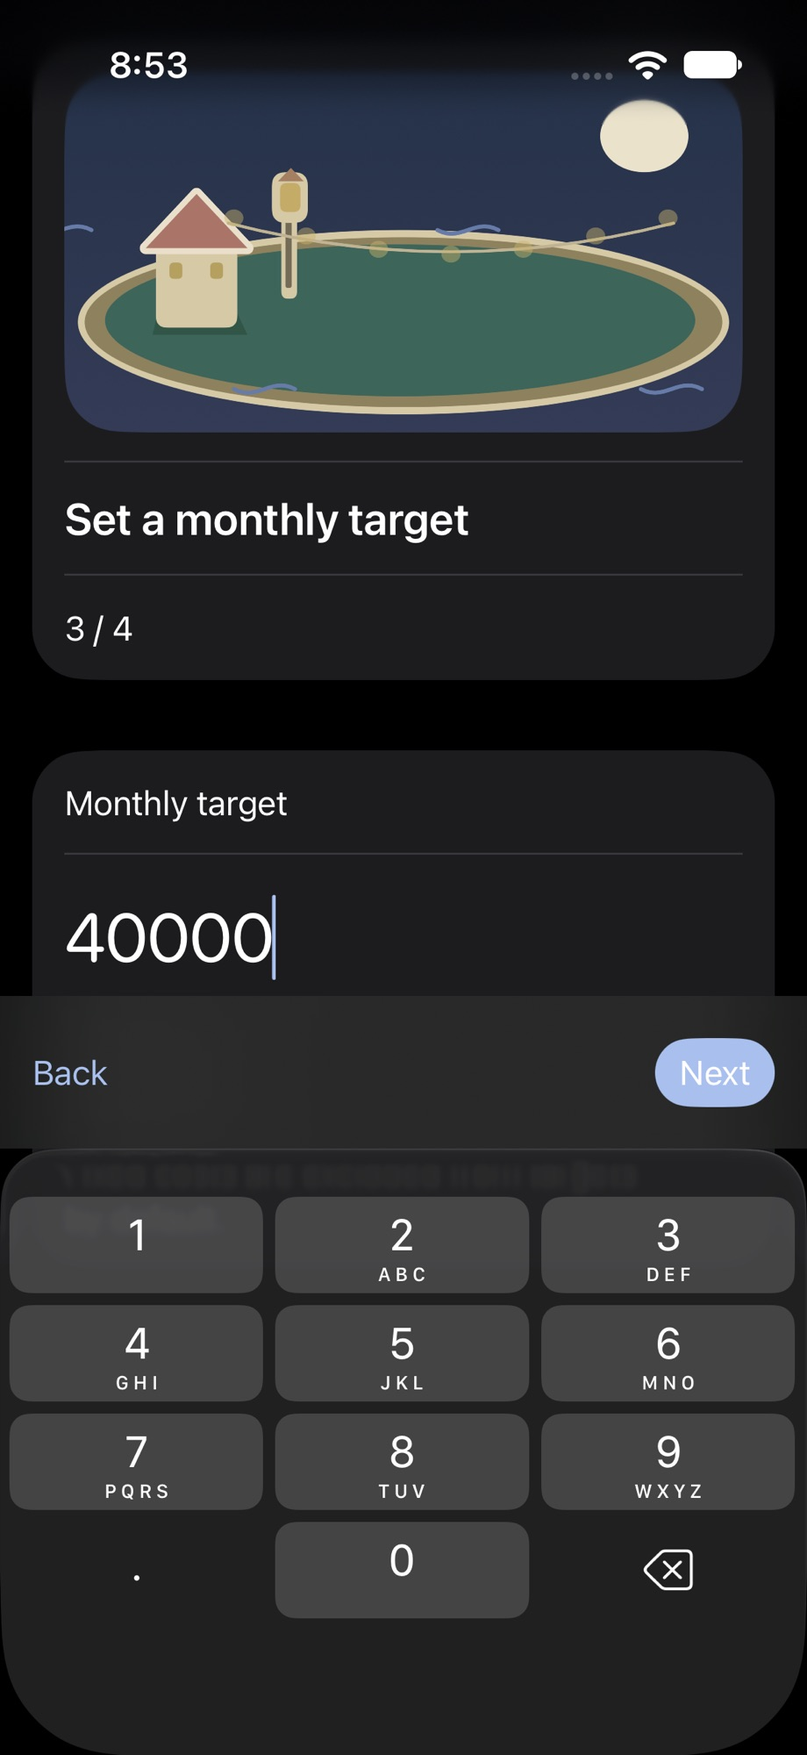
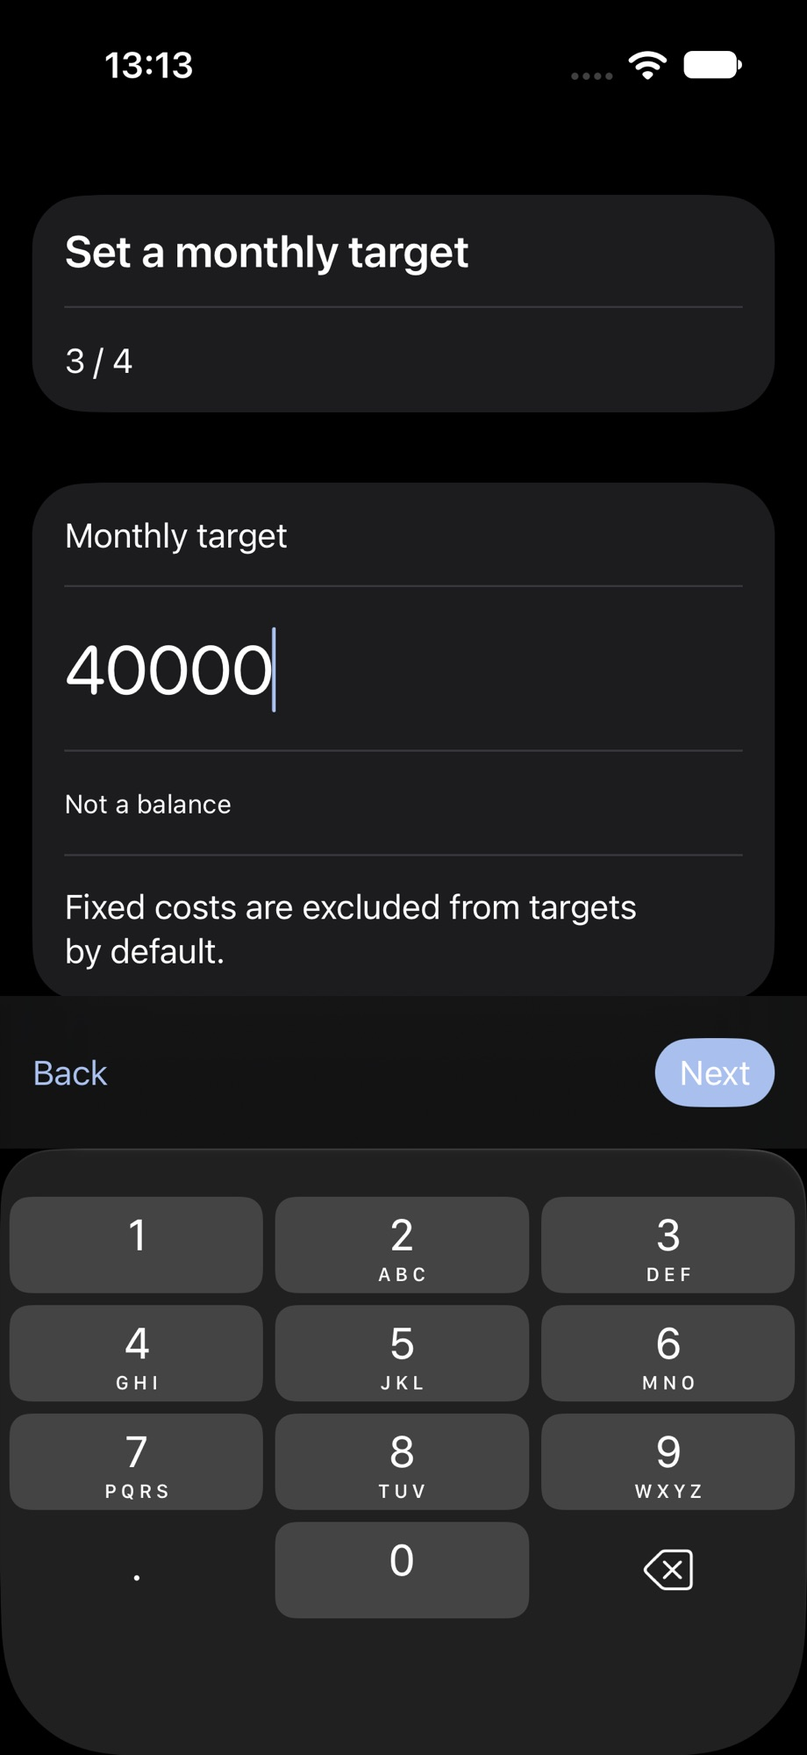
WEALTHY-C2B1-FIXED-CALENDAR: round 5 (PARTIAL) - onboarding amount visible with keyboard
Hide the target-step island while the amount field has focus (FocusState
passed into MoneyInputField, opacity transition); the bottom Back/Next bar
stays. testOnboardingAmountVisibleWithKeyboard now passes on iPhone 15 Pro
and 17 Pro at default size and AX3. Re-captured the 16 onboarding images.

Full suites: 17 Pro 61/61 pass; 15 Pro 60/61 - testResultAccessibilityAudit
reports a contrast failure on the result screen "Done" button (screen not
changed in this round). See .ai/LAST_REPORT.md.

diff --git a/Wealthy/Wealthy/LedgerRoot.swift b/Wealthy/Wealthy/LedgerRoot.swift
@@ -127,11 +127,15 @@ struct OnboardingView: View {
     @State private var step = 0
     @State private var amount = ""
     @State private var child = false
+    @FocusState private var amountFocused: Bool
     private let titles = ["onboardLanguage", "onboardCurrency", "onboardTarget", "onboardChild"]
     var body: some View {
         Form {
             Section {
-                IslandScene(growth: 0, festivals: 0, dusk: false).frame(height: 180).accessibilityHidden(true)
+                if step != 2 || !amountFocused {
+                    IslandScene(growth: 0, festivals: 0, dusk: false).frame(height: 180).accessibilityHidden(true)
+                        .transition(.opacity)
+                }
                 Text(session.t(titles[step])).font(.title2.weight(.semibold)).frame(maxWidth: .infinity, alignment: .leading)
                 Text("\(step + 1) / 4")
             }
@@ -140,13 +144,13 @@ struct OnboardingView: View {
                 if step == 1 { CurrencyPicker() }
                 if step == 2 {
                     Text(session.t("monthlyTarget"))
-                    MoneyInputField(text: $amount, label: session.t("amount"), identifier: "onboardingAmount", font: .system(.largeTitle, design: .rounded).monospacedDigit())
+                    MoneyInputField(text: $amount, label: session.t("amount"), identifier: "onboardingAmount", font: .system(.largeTitle, design: .rounded).monospacedDigit(), focus: $amountFocused)
                     Text(session.t("notBalance")).font(.footnote)
                     Text(session.t("fixedOff"))
                 }
                 if step == 3 { Toggle(session.t("useChild"), isOn: $child); Text(session.t("childExplanation")) }
             }
-        }.scrollDismissesKeyboard(.interactively).safeAreaInset(edge: .bottom) {
+        }.animation(.default, value: amountFocused).scrollDismissesKeyboard(.interactively).safeAreaInset(edge: .bottom) {
                 HStack {
                     if step > 0 { Button(session.t("back")) { step -= 1 }.frame(minHeight: 44) }
                     Spacer()

diff --git a/Wealthy/Wealthy/MoneyInputField.swift b/Wealthy/Wealthy/MoneyInputField.swift
@@ -4,7 +4,7 @@ import SwiftUI
 struct MoneyInputField: View {
     @Environment(LedgerSession.self) private var session
     @Binding var text: String
-    @FocusState private var isFocused: Bool
+    @FocusState private var internalFocus: Bool
 
     let label: String
     let identifier: String
@@ -12,13 +12,16 @@ struct MoneyInputField: View {
     var currencyCode: String? = nil
     var prompt: Text? = nil
     var foreground: Color? = nil
+    var focus: FocusState<Bool>.Binding? = nil
+
+    private var isFocused: Bool { (focus ?? $internalFocus).wrappedValue }
 
     var body: some View {
         TextField("", text: Binding(
             get: { isFocused ? text : session.formattedInput(text, code: currencyCode) },
             set: { text = $0 }
         ), prompt: prompt)
-        .focused($isFocused)
+        .focused(focus ?? $internalFocus)
         .onChange(of: isFocused) { _, focused in
             guard focused, let value = try? session.parse(text, code: currencyCode) else { return }
             text = session.input(value, code: currencyCode)

diff --git a/.ai/LAST_REPORT.md b/.ai/LAST_REPORT.md
@@ -1,44 +1,75 @@
-# Cycle 2b.1 Round 4 Report
+# Cycle 2b.1 Round 5 Report
 
 Task ID: WEALTHY-C2B1-FIXED-CALENDAR
 Status: PARTIAL
 
-Starting HEAD: `61e22d6c85847317e75c0816e611367f5ead1a45`; branch: `codex/wealthy-c2b1-fixed-calendar`. Host: macOS 27.2, Xcode 27.2 (27B52); iPhone 15 Pro and iPhone 17 Pro simulators use iOS 27.0. Pre-existing changes to `.ai/CURRENT_TASK.md`, three `.DS_Store` files, and an untracked design PDF were preserved.
+Starting HEAD: `c27d7342428eae126771687cf9c3ad0a589a02fb`; branch: `codex/wealthy-c2b1-fixed-calendar`. Host: macOS 27.2, Xcode 27.2 (27B52); both simulators use iOS 27.0. The pre-existing changes to `.ai/CURRENT_TASK.md`, three `.DS_Store` files and an untracked design PDF were preserved. `5db23f0` is an ancestor of HEAD.
 
 ## Changed files
 
-- `WealthyUITests/WealthyUITests.swift` — adds `testOnboardingAmountVisibleWithKeyboard`, running at the default size and AX3, checking the input value, hittability, keyboard, navigation-bar boundary, and Next button. The bar boundary calculation reflects the current padded HStack layout and must be adjusted if that layout changes.
+- `Wealthy/Wealthy/LedgerRoot.swift` — hides the target-step island with an opacity transition while the amount is focused; keeps the title, step count and bottom bar.
+- `Wealthy/Wealthy/MoneyInputField.swift` — accepts an optional external focus binding; other callers retain the internal focus state.
+- `Verification/Cycle2bEvidence/INDEX.md`
+- `Verification/Cycle2bEvidence/iphone15pro-onboarding-language-light.jpg`
+- `Verification/Cycle2bEvidence/iphone15pro-onboarding-language-dark.jpg`
+- `Verification/Cycle2bEvidence/iphone15pro-onboarding-currency-light.jpg`
+- `Verification/Cycle2bEvidence/iphone15pro-onboarding-currency-dark.jpg`
+- `Verification/Cycle2bEvidence/iphone15pro-onboarding-target-light.jpg`
+- `Verification/Cycle2bEvidence/iphone15pro-onboarding-target-dark.jpg`
+- `Verification/Cycle2bEvidence/iphone15pro-onboarding-child-light.jpg`
+- `Verification/Cycle2bEvidence/iphone15pro-onboarding-child-dark.jpg`
+- `Verification/Cycle2bEvidence/iphone17pro-onboarding-language-light.jpg`
+- `Verification/Cycle2bEvidence/iphone17pro-onboarding-language-dark.jpg`
+- `Verification/Cycle2bEvidence/iphone17pro-onboarding-currency-light.jpg`
+- `Verification/Cycle2bEvidence/iphone17pro-onboarding-currency-dark.jpg`
+- `Verification/Cycle2bEvidence/iphone17pro-onboarding-target-light.jpg`
+- `Verification/Cycle2bEvidence/iphone17pro-onboarding-target-dark.jpg`
+- `Verification/Cycle2bEvidence/iphone17pro-onboarding-child-light.jpg`
+- `Verification/Cycle2bEvidence/iphone17pro-onboarding-child-dark.jpg`
 - `.ai/LAST_REPORT.md`
 
-No product-code change is retained. Experimental changes were removed after they failed the new test.
+A temporary `WealthyUITests/Round5FrameDiagnostics.swift` was created to log frames and removed after both diagnostic runs. `testOnboardingAmountVisibleWithKeyboard` remains exactly as committed.
 
 ## Requirements
 
-1. **Test first — PASS for reproduction; acceptance FAIL.** On the unchanged product code, the first 15 Pro run failed at default size: field `(32.0, 519.33, 329.0, 42.33)` has bottom `561.67`; the original test's conservative bar boundary was `479.0` (`/tmp/wealthy-c2b1-r4-red.log`). The final test computes the bar boundary from both button sizes and HStack padding: 15 Pro default fails with field bottom `561.67` and bar top `474.0`; AX3 produced no additional assertion failure. 17 Pro passed both default and AX3. Both final test runs include keyboard present, typed `40000`, field and Next hittability, and field geometry assertions. The 15 Pro failure remains red.
-2. **Fix — NOT DONE.** The existing `safeAreaInset(edge: .bottom)` in `OnboardingView` and keyboard overlap the field on 15 Pro at default size. An initial `ScrollViewReader` using a bottom anchor after the keyboard appeared did not move it sufficiently; dispatching the scroll and repeating it on amount changes also failed, including at AX3. Moving Back/Next into the form and adding a keyboard toolbar still left the field overlapping the toolbar at both sizes. Combining the toolbar with a top-anchored scroll still failed at default size (field bottom `531.0`, Next top `508.0` in `/tmp/wealthy-c2b1-r4-target15d.log`). These were test experiments and were reverted. `testPersistedOnboardingRelaunch` passed on 15 Pro in the first scroll and toolbar experiments, but that does not establish a working fix. The reason SwiftUI did not position the field sufficiently is not established. Designer/Claude judgment is needed on the next standard-component approach before another implementation attempt.
-3. **Screenshots — NOT DONE.** The 16 Round 3 onboarding images remain unchanged: no corrected 15 Pro target capture exists. Synthetic-data target image acceptance remains unmet.
-4. **Full UI suites — NOT COMPLETED.** Both full runs were started with `-parallel-testing-enabled NO` and interrupted after the unresolved blocker was established. 15 Pro had started `testAdditionalSetupMatrix`; 17 Pro was interrupted during build/setup. No complete suite counts or pass claim are available. Both logs report interruption. No audits or tests were deliberately excluded.
-5. **Required checks — PARTIAL.** Core 117/117, shell with the existing Python dependency path, localization, `git diff --check`, Simulator Release build, signed generic iOS Release build, and signature verification passed. The bare `python3 Verification/verify_shell.py` failed because the default Python environment does not contain `fontTools`; using the installed site-packages path passed. Both builds warned that App Intents metadata extraction was skipped because the framework is not linked.
+1. **Focus-dependent island and keyboard acceptance — PASS.** The selected fix uses the existing bottom `safeAreaInset`, `@FocusState`, and a standard opacity transition. No additional content margins or scroll action were needed. `testOnboardingAmountVisibleWithKeyboard` passed on both simulators at default and AX3 sizes, both targeted and in the full suites. It checks field and Next hittability, the typed value, keyboard presence, and field position above the padded bar and keyboard. `testPersistedOnboardingRelaunch` also passed on both. The four target screenshots visibly show `40000` and the open keyboard. When focus ends the conditional restores the island; restoration on the same target step was not separately observed.
+
+   Frames below are points from separate temporary diagnostic UI tests after the first and only Round 5 fix. Bar top uses the committed acceptance test's formula. `field` and `keyboard` are `(x, y, width, height)`.
+
+   | Simulator / size | Field | Bar top | Next | Keyboard |
+   | --- | --- | ---: | --- | --- |
+   | 15 Pro default | (32, 309.33, 329, 42.33) | 474 | (317.33, 495, 59.67, 34) | (0, 567, 393, 227) |
+   | 15 Pro AX3 | (32, 384, 329, 64) | 456 | (260.67, 472, 116.33, 62) | (0, 567, 393, 227) |
+   | 17 Pro default | (32, 312.33, 338, 42.33) | 496.17 | (326.33, 517, 59.67, 34.33) | (0, 589, 402, 227) |
+   | 17 Pro AX3 | (32, 406, 338, 64) | 478 | (269.67, 494, 116.33, 62) | (0, 589, 402, 227) |
+
+   Before the fix, the Round 4 final 15 Pro default acceptance test recorded field `(32, 519.33, 329, 42.33)` and bar top `474`; the other pre-fix frames were not recorded. The designer's explanation for the failed scroll attempts remains a hypothesis, not an established root cause.
+
+2. **Onboarding screenshots — PASS.** The 16 light/dark images for language, currency, target and child were exported from `testNativeOnboardingEvidenceLightAndDark` in the full suites. All four target images were visually inspected and show the synthetic `40000` above the bar and keyboard. `sips` converted them to JPEG quality 80, at 921 × 2000 (15 Pro) or 920 × 2000 (17 Pro), all 93,003–137,122 bytes. See `Verification/Cycle2bEvidence/INDEX.md`.
+
+3. **Full UI suites — PARTIAL.** 15 Pro: 61 tests, 1 failure; 17 Pro: 61 tests, 0 failures. On 15 Pro `Cycle2aUITests.testResultAccessibilityAudit` failed at `WealthyUITests.swift:236`: `Contrast failed / Contrast failed for SwiftUI.AccessibilityNode`, label `Done`, identifier empty, frame `(164.33, 824.67, 64.33, 34.33)`. The same test passed on 17 Pro. This is a contrast issue on the existing result screen, outside the Round 5 change; no audit was weakened and it remains unresolved. The existing owner-approved narrow Dynamic Type SwiftUI-node exception remains in place, and no new exception was added. The full matrix and metric tests ran; simulator metric values were not judged as physical-device performance.
+
+4. **Required checks — PASS.** Core: 117 tests in 13 suites. Shell: 199 keys × four languages and font checks. Localization: 199 shipping keys × four languages and 2,420 archived checks. Both Release builds and device-app signature verification passed. Both builds warned that App Intents metadata extraction was skipped because AppIntents.framework is not linked. `git diff --check` passed after the report was written.
 
 ## Verification commands
 
-- `xcodebuild -project Wealthy/Wealthy.xcodeproj -scheme WealthyUITests -destination 'platform=iOS Simulator,id=870430A8-E557-4CED-8A8E-079801D804B9' -derivedDataPath /tmp/wealthy-c2b1-r4-derived15 -resultBundlePath /tmp/wealthy-c2b1-r4-red.xcresult -parallel-testing-enabled NO -only-testing:WealthyUITests/Cycle2aUITests/testOnboardingAmountVisibleWithKeyboard test` — FAIL as expected before product changes; log `/tmp/wealthy-c2b1-r4-red.log`.
-- Same command on final product and test state with `-resultBundlePath /tmp/wealthy-c2b1-r4-final15.xcresult` — FAIL, 1 assertion at default; `/tmp/wealthy-c2b1-r4-final15.log`.
-- Same command with destination `platform=iOS Simulator,id=DEA8D0DF-8BA2-4F70-B19C-BACAC400EAE0`, derived data `/tmp/wealthy-c2b1-r4-derived17`, result `/tmp/wealthy-c2b1-r4-final17.xcresult` — PASS, default and AX3; `/tmp/wealthy-c2b1-r4-final17.log`.
-- Targeted experimental runs are recorded in `/tmp/wealthy-c2b1-r4-target15.log`, `target15b.log`, `target15c.log`, and `target15d.log`; each had at least one failure of the new test. The product changes tested there were reverted.
-- `xcodebuild -project Wealthy/Wealthy.xcodeproj -scheme WealthyUITests -destination 'platform=iOS Simulator,id=870430A8-E557-4CED-8A8E-079801D804B9' -derivedDataPath /tmp/wealthy-c2b1-r4-derived15 -resultBundlePath /tmp/wealthy-c2b1-r4-full15.xcresult -parallel-testing-enabled NO test` — INTERRUPTED; `/tmp/wealthy-c2b1-r4-full15.log`.
-- Same full-suite command with destination `platform=iOS Simulator,id=DEA8D0DF-8BA2-4F70-B19C-BACAC400EAE0`, derived data `/tmp/wealthy-c2b1-r4-derived17`, result `/tmp/wealthy-c2b1-r4-full17.xcresult` — INTERRUPTED; `/tmp/wealthy-c2b1-r4-full17.log`.
-- `sh Verification/verify_core.sh` — PASS, 117 tests in 13 suites; `/tmp/wealthy-c2b1-r4-core.log`.
-- `python3 Verification/verify_shell.py` — FAIL, `ModuleNotFoundError: No module named 'fontTools'`.
-- `PYTHONPATH=/Users/harrison/Library/Python/3.14/lib/python/site-packages python3 Verification/verify_shell.py` — PASS, 199 keys × four languages, custom-font and other checks.
-- `sh Verification/verify_localization.sh` — PASS, 199 shipping keys × four languages and 2,420 archived checks.
+- `xcodebuild -project Wealthy/Wealthy.xcodeproj -scheme WealthyUITests -destination 'platform=iOS Simulator,id=870430A8-E557-4CED-8A8E-079801D804B9' -derivedDataPath /tmp/wealthy-c2b1-r5-derived15 -resultBundlePath /tmp/wealthy-c2b1-r5-target15.xcresult -parallel-testing-enabled NO -only-testing:WealthyUITests/Cycle2aUITests/testOnboardingAmountVisibleWithKeyboard test` — PASS; `/tmp/wealthy-c2b1-r5-target15.log`.
+- Same targeted command with destination `platform=iOS Simulator,id=DEA8D0DF-8BA2-4F70-B19C-BACAC400EAE0`, derived data `/tmp/wealthy-c2b1-r5-derived17`, result `/tmp/wealthy-c2b1-r5-target17.xcresult` — PASS; `/tmp/wealthy-c2b1-r5-target17.log`.
+- `xcodebuild -project Wealthy/Wealthy.xcodeproj -scheme WealthyUITests -destination 'platform=iOS Simulator,id=870430A8-E557-4CED-8A8E-079801D804B9' -derivedDataPath /tmp/wealthy-c2b1-r5-derived15 -resultBundlePath /tmp/wealthy-c2b1-r5-full15.xcresult -parallel-testing-enabled NO test` — FAIL, 61 tests, 1 failure; `/tmp/wealthy-c2b1-r5-full15.log`.
+- Same full-suite command with destination `platform=iOS Simulator,id=DEA8D0DF-8BA2-4F70-B19C-BACAC400EAE0`, derived data `/tmp/wealthy-c2b1-r5-derived17`, result `/tmp/wealthy-c2b1-r5-full17.xcresult` — PASS, 61 tests; `/tmp/wealthy-c2b1-r5-full17.log`.
+- Temporary diagnostic: `xcodebuild -project Wealthy/Wealthy.xcodeproj -scheme WealthyUITests -destination 'platform=iOS Simulator,id=870430A8-E557-4CED-8A8E-079801D804B9' -derivedDataPath /tmp/wealthy-c2b1-r5-diagnostic15 -resultBundlePath /tmp/wealthy-c2b1-r5-frames15.xcresult -parallel-testing-enabled NO -only-testing:WealthyUITests/Round5FrameDiagnostics/testFrames test` — PASS; `/tmp/wealthy-c2b1-r5-frames15.log`. Same command with 17 Pro ID `DEA8D0DF-8BA2-4F70-B19C-BACAC400EAE0`, paths `diagnostic17` and `frames17.xcresult` — PASS; `/tmp/wealthy-c2b1-r5-frames17.log`.
+- `sh Verification/verify_core.sh` — initial sandboxed invocation FAIL: SwiftPM `sandbox-exec: sandbox_apply: Operation not permitted`; authorized rerun PASS, 117 tests; `/tmp/wealthy-c2b1-r5-core-authorized.log`.
+- `PYTHONPATH=/Users/harrison/Library/Python/3.14/lib/python/site-packages python3 Verification/verify_shell.py` — PASS; `/tmp/wealthy-c2b1-r5-shell.log`.
+- `sh Verification/verify_localization.sh` — PASS; `/tmp/wealthy-c2b1-r5-localization.log`.
+- `xcodebuild -project Wealthy/Wealthy.xcodeproj -scheme WealthyUITests -configuration Release -destination 'generic/platform=iOS Simulator' -derivedDataPath /tmp/wealthy-c2b1-r5-release-sim build` — PASS; `/tmp/wealthy-c2b1-r5-release-sim.log`.
+- `xcodebuild -project Wealthy/Wealthy.xcodeproj -scheme WealthyUITests -configuration Release -destination 'generic/platform=iOS' -derivedDataPath /tmp/wealthy-c2b1-r5-release-device -allowProvisioningUpdates build` — PASS; `/tmp/wealthy-c2b1-r5-release-device.log`.
+- `codesign --verify --deep --strict /tmp/wealthy-c2b1-r5-release-device/Build/Products/Release-iphoneos/Wealthy.app` — PASS.
+- `xcrun xcresulttool export attachments --path /tmp/wealthy-c2b1-r5-full15.xcresult --output-path /tmp/wealthy-c2b1-r5-attachments15 --test-id 'Cycle2aUITests/testNativeOnboardingEvidenceLightAndDark()'` — PASS; repeated for `full17.xcresult` and `attachments17` — PASS. `sips -Z 2000 -s format jpeg -s formatOptions 80 <source> --out <destination>` produced each of the 16 images; `sips -g pixelWidth -g pixelHeight` verified dimensions.
 - `git diff --check` — PASS.
-- `xcodebuild -project Wealthy/Wealthy.xcodeproj -scheme WealthyUITests -configuration Release -destination 'generic/platform=iOS Simulator' -derivedDataPath /tmp/wealthy-c2b1-r4-release-sim build` — PASS; `/tmp/wealthy-c2b1-r4-release-sim-final.log`.
-- `xcodebuild -project Wealthy/Wealthy.xcodeproj -scheme WealthyUITests -configuration Release -destination 'generic/platform=iOS' -derivedDataPath /tmp/wealthy-c2b1-r4-release-device -allowProvisioningUpdates build` — PASS; `/tmp/wealthy-c2b1-r4-release-device.log`.
-- `codesign --verify --deep --strict /tmp/wealthy-c2b1-r4-release-device/Build/Products/Release-iphoneos/Wealthy.app` — PASS.
 
 ## Not done / unverified
 
-- The 15 Pro default-size overlap is unresolved. Reproduce by launching onboarding, advancing to monthly target, tapping the amount field, and typing `40000`; compare the field bottom with the navigation bar above the open keyboard. See the final 15 Pro result bundle and failure above.
-- A corrected product implementation, two full zero-failure suites, and 16 refreshed onboarding screenshots are not available. No physical-device check was performed. The interrupted suites cannot support any pass or failure count for the whole suite.
-- No staging, commit, push, merge, branch switch, or unrelated cleanup was performed; the operator owns Git.
+- The 15 Pro result-screen contrast finding requires designer/Claude review; reproduction is the failing full-suite audit and log above. Whether it is intermittent or pre-existing was not determined in this round.
+- No physical-device installation, physical-device UI, VoiceOver, or performance assessment was performed in Round 5. The physical-device item from the original cycle was not revalidated.
+- No design-board comparison was performed in this narrow round; prior cycle findings were not revalidated.
+- No staging, commit, push, merge, branch switch, or unrelated cleanup was performed. The operator owns Git.

diff --git a/.ai/CURRENT_TASK.md b/.ai/CURRENT_TASK.md
@@ -123,3 +123,14 @@ Same Task ID, branch and PR #10. Read `.ai/LAST_REPORT.md` first. One item only;
 4. Full `WealthyUITests` once per simulator, `-parallel-testing-enabled NO`; required checks (`verify_core.sh` 117, `verify_shell.py`, `verify_localization.sh`, `git diff --check`, Simulator Release and signed generic iOS builds). Keep logs under `/tmp/wealthy-c2b1-r4*`.
 
 Acceptance for Round 4: item-1 test passes on both simulators (and at AX3), full suites zero failures on both, required checks pass, screenshots updated. Then `Status: DONE`; otherwise `PARTIAL` with exact failures.
+
+## Round 5 (designer decision, 2026-11-07, after PR #10 head c27d734)
+Same Task ID, branch and PR #10. Read `.ai/LAST_REPORT.md` first. Keep `testOnboardingAmountVisibleWithKeyboard` exactly as committed (it is the acceptance test).
+
+**Why the scroll fixes failed (designer's reading, not verified):** on iPhone 15 Pro the target step is short; the amount field is the last row, so the form cannot scroll far enough to lift it above the bar and keyboard. Scrolling tricks cannot create space that the layout does not have. So the fix is to free vertical space while typing.
+
+1. **Fix (decided):** keep the Round 3 bottom bar (Back / Next in `safeAreaInset(edge: .bottom)`). On the target step, while the amount field has focus (`@FocusState`), hide the island illustration in the step header (the title and "3 / 4" stay); show it again when focus ends. Use a standard transition; no new components, wording or flow changes. If the test still fails at the default size or at AX3 after this, additionally add bottom scroll space with `.contentMargins(.bottom, <bar height>, for: .scrollContent)` and scroll the field into view on focus. Report the frames after each step.
+2. Re-capture the 16 onboarding screenshots (light/dark, both simulators); the target-step images must show the typed amount.
+3. Full `WealthyUITests` once per simulator, `-parallel-testing-enabled NO`; required checks (`verify_core.sh` 117, `verify_shell.py` with the PYTHONPATH that provides fontTools, `verify_localization.sh`, `git diff --check`, Simulator Release and signed generic iOS builds). Keep logs under `/tmp/wealthy-c2b1-r5*`.
+
+Acceptance for Round 5: `testOnboardingAmountVisibleWithKeyboard` passes on both simulators at default size and AX3; full suites zero failures on both; required checks pass; screenshots updated. Then `Status: DONE`; otherwise `PARTIAL` with the exact frames and failures.

diff --git a/Verification/Cycle2bEvidence/INDEX.md b/Verification/Cycle2bEvidence/INDEX.md
@@ -2,7 +2,7 @@
 
 Task ID: WEALTHY-C2B1-FIXED-CALENDAR
 
-Synthetic data only. Both simulators used iOS 27.0 and Xcode 27.2. Round 3 adds onboarding captures for the changed button layout; target captures show the keyboard. The other images are from earlier rounds. JPEG quality is 80, long edges are at most 2,000 pixels, and each image is under 1 MB.
+Synthetic data only. Both simulators used iOS 27.0 and Xcode 27.2. Round 5 refreshes the onboarding captures; target captures show the typed amount and keyboard. The other images are from earlier rounds. JPEG quality is 80, long edges are at most 2,000 pixels, and each image is under 1 MB.
 
 ## Round 3 audit results
 
@@ -17,7 +17,7 @@ The full WealthyUITests suite passed on both simulators: 60 tests, zero failures
 
 Simulator screenshots do not establish physical-device UI or VoiceOver behavior.
 
-## Round 3 onboarding screenshots
+## Round 5 onboarding screenshots
 
 Images come from `testNativeOnboardingEvidenceLightAndDark` in the full suite. The target screen has a synthetic amount and the software keyboard open.
 
@@ -52,4 +52,4 @@ Images come from `testNativeOnboardingEvidenceLightAndDark` in the full suite. T
 | Day detail | [Light](iphone17pro-day-detail-light.jpg) | [Dark](iphone17pro-day-detail-dark.jpg) | [AX3](iphone17pro-day-detail-ax3.jpg) |
 | Analysis | [Light](iphone17pro-analysis-light.jpg) | [Dark](iphone17pro-analysis-dark.jpg) | [AX3](iphone17pro-analysis-ax3.jpg) |
 
-The 42 earlier screenshots are retained; Round 3 adds 16 onboarding screenshots. The new full-suite result bundles are `/tmp/wealthy-c2b1-r3-authorized.qWAWO5/full15.xcresult` and `full17.xcresult`. See `.ai/LAST_REPORT.md` for commands and remaining limits.
+The 42 earlier screenshots are retained; Round 5 refreshes the 16 onboarding screenshots. The Round 5 full-suite result bundles are `/tmp/wealthy-c2b1-r5-full15.xcresult` and `/tmp/wealthy-c2b1-r5-full17.xcresult`. The 15 Pro suite has one result-screen contrast audit failure; the 17 Pro suite passed. See `.ai/LAST_REPORT.md` for commands and remaining limits.
